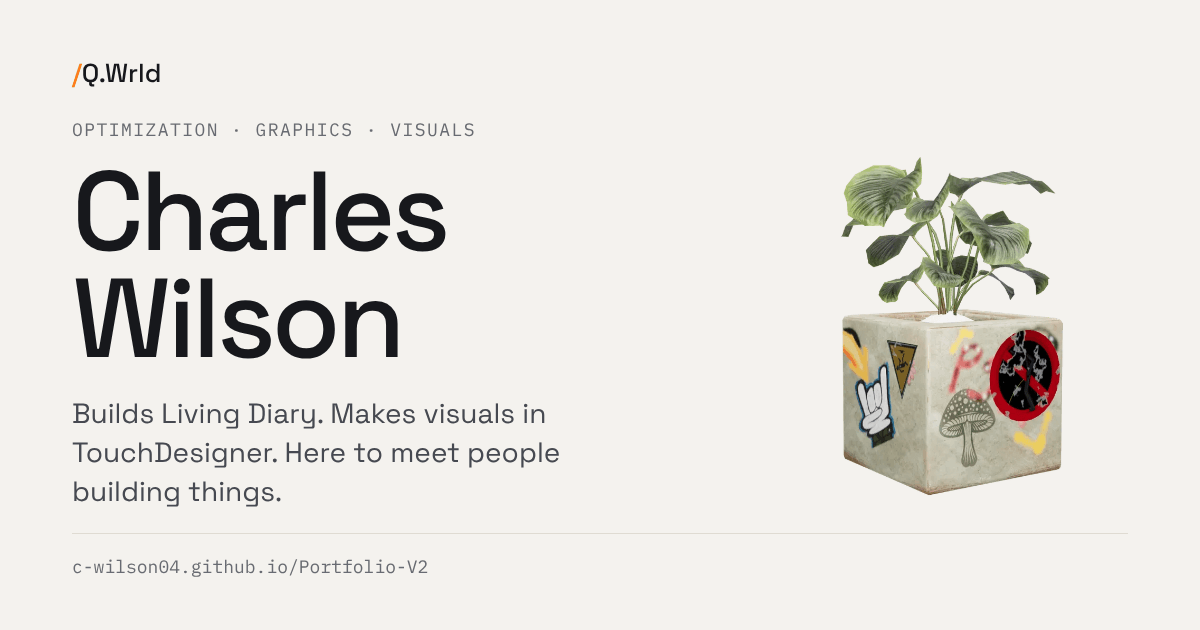
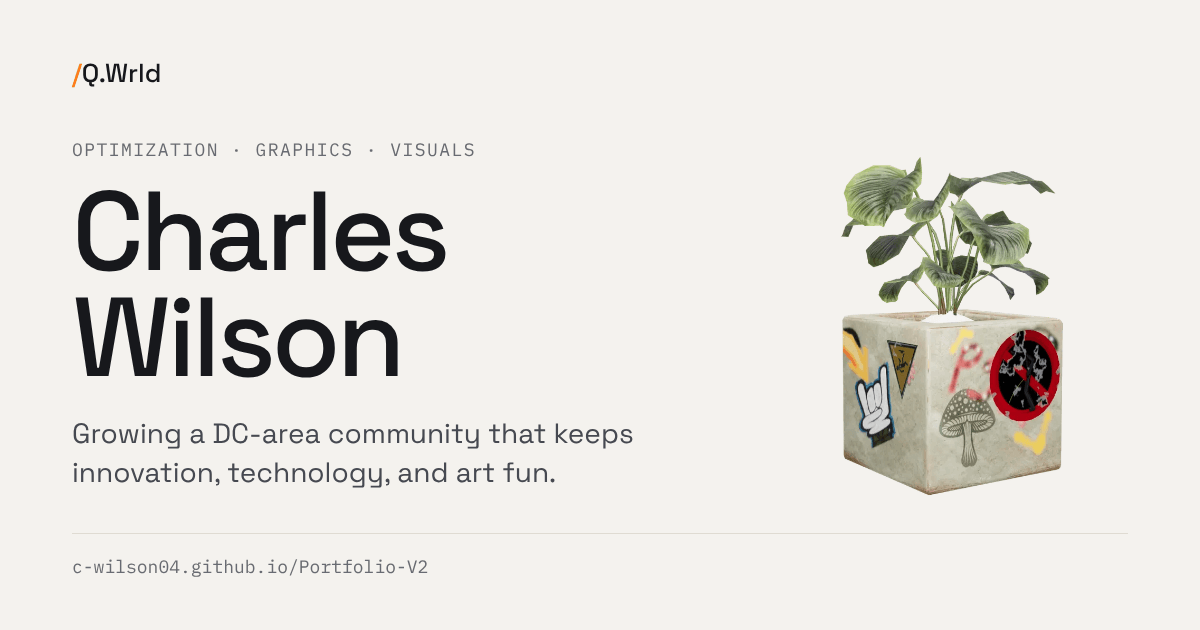
Hero in Charles's words, DC area, and what people can reach out about
- Hero intro and invite use his own copy (community that keeps
  innovation, technology and art fun); the second button is now
  "How I can help" and jumps to the new list.
- Contact: based in the DC area (the DMV), with a "Reach out about" list:
  project help, technical questions, organizations and events, and
  tech education. Items live in profile.ts (helpWith).
- Now > Looking for, the home page description and the link-preview
  image match the new focus.
- The 3D model no longer redraws every frame when it is holding still
  (reduced motion); it renders only after a turn, drag or resize.

Claude-Session: https://claude.ai/code/session_01WZUdUtvySQgLfM9ismr4tk

diff --git a/src/data/profile.ts b/src/data/profile.ts
@@ -5,13 +5,13 @@ export const profile = {
   name: "Charles Wilson",
   alias: "Q.Wrld",
   email: "charles.ikwilson@gmail.com",
-  location: "Richmond, VA",
+  location: "the DC area (the DMV)",
   tagline: "Optimization · Graphics · Visuals",
 
   intro:
-    "I work in optimization and logistics, mostly in Python and data tools. On my own time I build Living Diary, a journal that turns your words into a world, and I make visuals in TouchDesigner.",
+    "I work in optimization and logistics, mostly in Python and other industry data tools. On my own time I build new projects, research cutting-edge technology, and make visual art in TouchDesigner.",
   invite:
-    "I'm not looking for a job. I'm looking for people. If you're building something, I'd love to see it.",
+    "I'm looking to grow an inspiring community around those interests to help keep innovation, technology, and art actually fun. Yes, fun. Scroll down to learn more.",
 
   // The "Now" section. Bump `nowUpdated` whenever you change these.
   nowUpdated: "November 2026",
@@ -35,7 +35,27 @@ export const profile = {
     },
     {
       term: "Looking for",
-      text: "People. I want to see what others are building right now.",
+      text: "A community that keeps innovation, technology, and art fun. Come build it with me.",
+    },
+  ],
+
+  // "Reach out about" in the Contact section; the hero's second button links here.
+  helpWith: [
+    {
+      title: "Project help",
+      text: "Stuck on a build, or want a second set of eyes? Send it over.",
+    },
+    {
+      title: "Technical questions",
+      text: "Python, data, optimization, graphics, or anything else you see on this site.",
+    },
+    {
+      title: "Organizations & events",
+      text: "Invite me to take part in your organization, meetup, panel, or event.",
+    },
+    {
+      title: "Tech education",
+      text: "Helping the community stay educated on technology, through talks, workshops, and plain-English explainers.",
     },
   ],
 

diff --git a/index.html b/index.html
@@ -4,7 +4,7 @@
     <meta charset="UTF-8" />
     <meta name="viewport" content="width=device-width, initial-scale=1.0" />
     <title>Charles Wilson · Q.Wrld</title>
-    <meta name="description" content="Charles Wilson works in optimization and logistics, builds Living Diary (a journal that turns your words into a world), and makes visuals in TouchDesigner." />
+    <meta name="description" content="Charles Wilson builds projects, researches cutting-edge tech, and makes art in TouchDesigner, and is growing a DC-area community to keep it all fun." />
     <meta name="author" content="Charles Wilson" />
     <link rel="canonical" href="https://c-wilson04.github.io/Portfolio-V2/" />
     <link rel="icon" type="image/svg+xml" href="/favicon.svg" />
@@ -14,7 +14,7 @@
     <meta property="og:type" content="website" />
     <meta property="og:site_name" content="Q.Wrld" />
     <meta property="og:title" content="Charles Wilson · Q.Wrld" />
-    <meta property="og:description" content="Charles Wilson works in optimization and logistics, builds Living Diary (a journal that turns your words into a world), and makes visuals in TouchDesigner." />
+    <meta property="og:description" content="Charles Wilson builds projects, researches cutting-edge tech, and makes art in TouchDesigner, and is growing a DC-area community to keep it all fun." />
     <meta property="og:url" content="https://c-wilson04.github.io/Portfolio-V2/" />
     <meta property="og:image" content="https://c-wilson04.github.io/Portfolio-V2/og.png" />
     <meta property="og:image:width" content="1200" />

diff --git a/src/components/ModelViewer.tsx b/src/components/ModelViewer.tsx
@@ -66,8 +66,13 @@ export default function ModelViewer({ src, label, onReady }: ModelViewerProps) {
 
     let halfHeight = 1;
     let turnRadius = 1;
+    // Only redraw when something changed (matters when the model holds still).
+    let needsRender = true;
 
-    const render = () => renderer.render(scene, camera);
+    const render = () => {
+      renderer.render(scene, camera);
+      needsRender = false;
+    };
 
     // Fit the whole model, at any angle of its turn, inside the frame.
     const frameModel = () => {
@@ -97,9 +102,14 @@ export default function ModelViewer({ src, label, onReady }: ModelViewerProps) {
       if (!visible || !loaded || document.hidden) return;
       if (!dragging) {
         velocity *= Math.pow(0.04, dt); // ease out after a flick
-        pivot.rotation.y += (reduceMotion ? 0 : SPIN) * dt + velocity * dt;
+        if (Math.abs(velocity) < 0.001) velocity = 0;
+        const step = (reduceMotion ? 0 : SPIN) * dt + velocity * dt;
+        if (step !== 0) {
+          pivot.rotation.y += step;
+          needsRender = true;
+        }
       }
-      render();
+      if (needsRender) render();
     };
 
     new GLTFLoader().load(
@@ -135,7 +145,7 @@ export default function ModelViewer({ src, label, onReady }: ModelViewerProps) {
       lastX = event.clientX;
       pivot.rotation.y += dx * 0.01;
       velocity = dx * 0.6;
-      if (reduceMotion || !visible) render();
+      needsRender = true;
     };
     const onPointerUp = (event: PointerEvent) => {
       dragging = false;

diff --git a/src/components/ContactSection.tsx b/src/components/ContactSection.tsx
@@ -28,10 +28,18 @@ export default function ContactSection() {
           Say hello.
         </h2>
         <p className="contact__lede">
-          I'm based in {profile.location}, and I'm here to meet people. If you're building
-          something, writing about where tech is going, or making visuals, I'd love to hear
-          about it.
+          I'm based in {profile.location}. Reach out about any of these, or just to talk about
+          what you're building.
         </p>
+
+        <ul className="help" id="help" aria-label="What you can reach out about">
+          {profile.helpWith.map((item) => (
+            <li key={item.title}>
+              <h3>{item.title}</h3>
+              <p>{item.text}</p>
+            </li>
+          ))}
+        </ul>
 
         <div className="contact__email">
           <a href={`mailto:${profile.email}`}>{profile.email}</a>

diff --git a/src/components/ContactSection.css b/src/components/ContactSection.css
@@ -16,6 +16,46 @@
   color: var(--text-2);
 }
 
+/* "Reach out about": two columns of four, hairline rules like the Now list. */
+.help {
+  list-style: none;
+  width: 100%;
+  margin: 32px 0 0;
+  padding: 0;
+  display: grid;
+  grid-template-columns: repeat(2, minmax(0, 1fr));
+  gap: 0 40px;
+}
+
+.help li {
+  display: grid;
+  gap: 6px;
+  align-content: start;
+  padding-block: 20px;
+  border-top: 1px solid var(--line);
+}
+
+.help h3 {
+  font-size: 19px;
+}
+
+.help h3::before {
+  content: "→ ";
+  content: "→ " / ""; /* decorative: screen readers skip it */
+  color: var(--accent-text);
+}
+
+.help p {
+  max-width: 30em;
+  color: var(--text-2);
+}
+
+@media (max-width: 640px) {
+  .help {
+    grid-template-columns: 1fr;
+  }
+}
+
 .contact__email {
   display: flex;
   align-items: center;

diff --git a/src/components/Hero.tsx b/src/components/Hero.tsx
@@ -26,8 +26,8 @@ export default function Hero() {
             Say hello
             <ArrowRightIcon />
           </a>
-          <a className="btn btn--ghost" href="#now">
-            What I'm up to
+          <a className="btn btn--ghost" href="#help">
+            How I can help
           </a>
         </div>
       </div>
